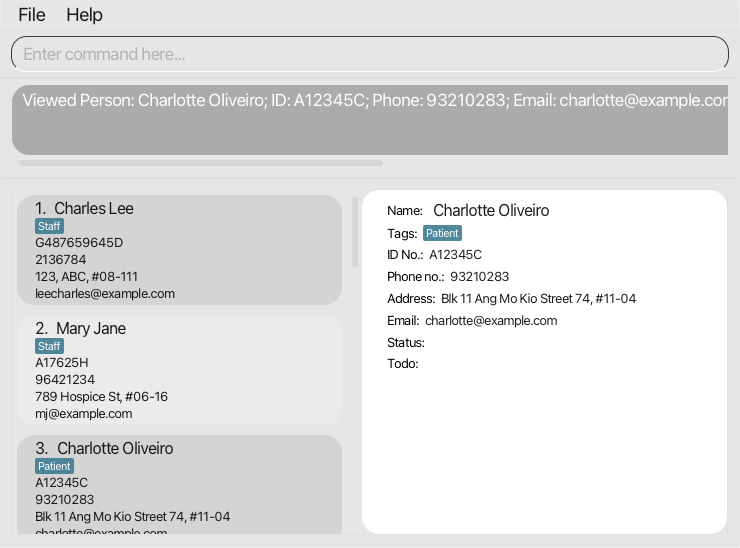
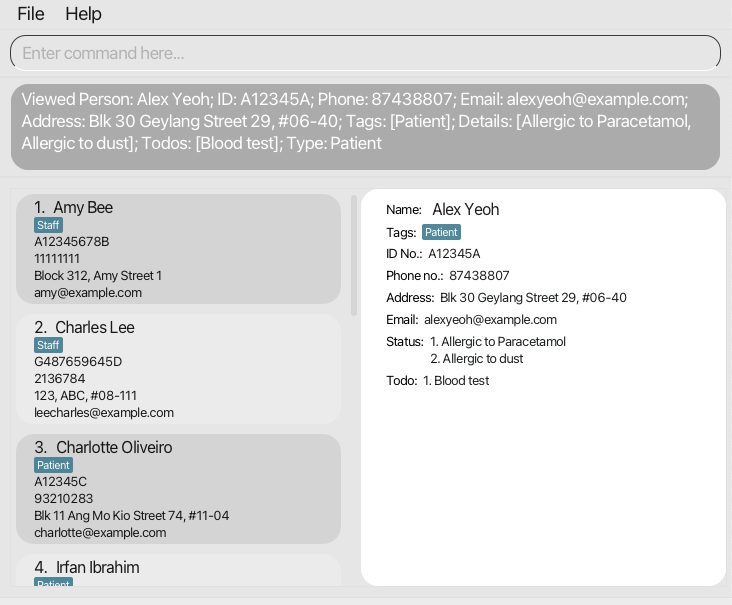
Update ui result display to wrap text.

diff --git a/src/main/resources/view/PatientistTheme.css b/src/main/resources/view/PatientistTheme.css
@@ -147,7 +147,7 @@
 }
 
 .stack-pane {
-     -fx-background-color: derive(#dbdbdb, 20%);
+    -fx-background-color: derive(#dbdbdb, 20%);
 }
 
 .pane-with-border {
@@ -365,7 +365,7 @@
     -fx-font-size: 11;
 }
 
-#status .label {
+#status .label, #todos .label {
     -fx-font-family: "Segoe UI";
     -fx-font-size: 13px;
     -fx-text-fill: #010504;
@@ -373,7 +373,8 @@
 
 .details {
    -fx-background-color: transparent, #ffffff, transparent, #ffffff;
-   -fx-background-radius: 18 18 18 18;}
+   -fx-background-radius: 18 18 18 18;
+}
 
 .scroll-pane > .viewport {
    -fx-background-color: transparent

diff --git a/src/main/java/seedu/patientist/model/person/patient/Patient.java b/src/main/java/seedu/patientist/model/person/patient/Patient.java
@@ -105,6 +105,8 @@ public class Patient extends Person {
         StringBuilder sb = new StringBuilder(super.toString());
         sb.append("; Details: ")
                 .append(details.toString())
+                .append("; Todos: ")
+                .append(toDos.toString())
                 .append("; Type: Patient ");
         return sb.toString();
     }
